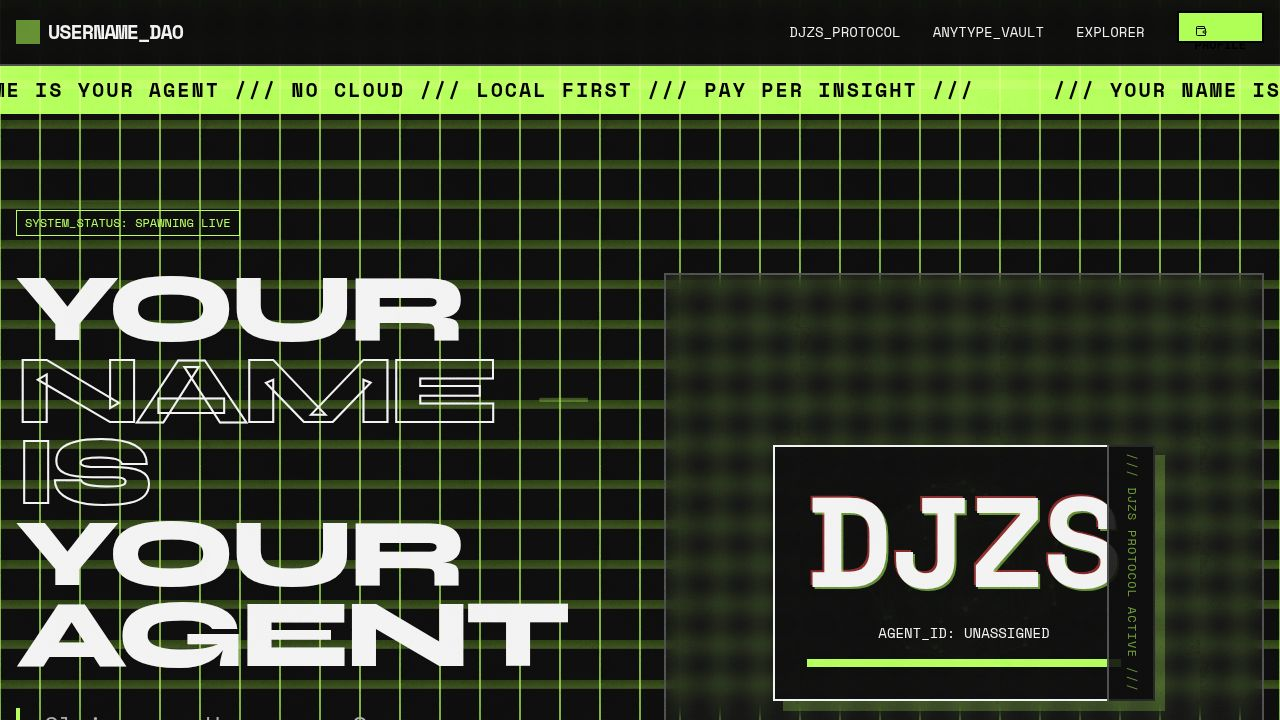
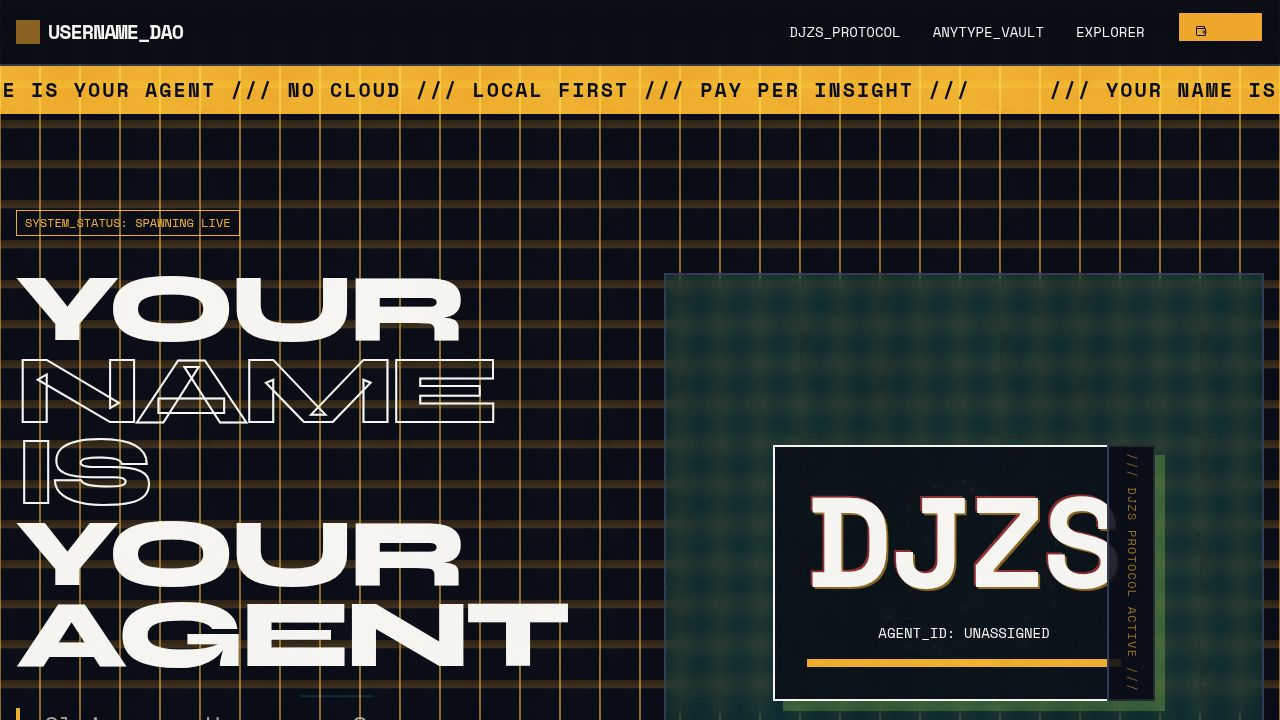
Update accent colors to a new cosmic palette
Replace all instances of the old neon green accent color with the new cosmic amber and teal palette across various components and CSS variables, and update replit.md to reflect the new color scheme.

Replit-Commit-Author: Agent
Replit-Commit-Session-Id: cc023a1b-531e-4fe4-841c-ffc53ed90461
Replit-Commit-Checkpoint-Type: full_checkpoint
Replit-Commit-Event-Id: f6748037-b390-4ebc-a0e1-237a78baecce
Replit-Commit-Screenshot-Url: https://storage.googleapis.com/screenshot-production-us-central1/ea5d0ede-c0b4-4e6e-8aab-622338eae763/cc023a1b-531e-4fe4-841c-ffc53ed90461/zV8A74f
Replit-Helium-Checkpoint-Created: true

diff --git a/client/src/index.css b/client/src/index.css
@@ -8,41 +8,41 @@
   --radius-md: 0px;
   --radius-lg: 0px;
   --radius-xl: 0px;
-  --color-background: hsl(0 0% 5%);
-  --color-foreground: hsl(0 0% 95%);
-  --color-card: hsl(0 0% 8%);
-  --color-card-foreground: hsl(0 0% 95%);
-  --color-popover: hsl(0 0% 8%);
-  --color-popover-foreground: hsl(0 0% 95%);
-  --color-primary: hsl(88 100% 67%);
-  --color-primary-foreground: hsl(0 0% 0%);
-  --color-secondary: hsl(0 0% 20%);
-  --color-secondary-foreground: hsl(0 0% 95%);
-  --color-muted: hsl(0 0% 15%);
-  --color-muted-foreground: hsl(0 0% 65%);
-  --color-accent: hsl(88 100% 67%);
-  --color-accent-foreground: hsl(0 0% 0%);
+  --color-background: hsl(225 40% 6%);
+  --color-foreground: hsl(45 20% 95%);
+  --color-card: hsl(225 35% 10%);
+  --color-card-foreground: hsl(45 20% 95%);
+  --color-popover: hsl(225 35% 10%);
+  --color-popover-foreground: hsl(45 20% 95%);
+  --color-primary: hsl(38 85% 55%);
+  --color-primary-foreground: hsl(225 40% 6%);
+  --color-secondary: hsl(173 60% 35%);
+  --color-secondary-foreground: hsl(45 20% 95%);
+  --color-muted: hsl(225 30% 15%);
+  --color-muted-foreground: hsl(45 10% 60%);
+  --color-accent: hsl(173 60% 40%);
+  --color-accent-foreground: hsl(225 40% 6%);
   --color-destructive: hsl(0 84.2% 60.2%);
   --color-destructive-foreground: hsl(0 0% 98%);
-  --color-border: hsl(0 0% 30%);
-  --color-primary-border: hsl(88 100% 67%);
-  --color-accent-border: hsl(88 100% 67%);
-  --color-card-border: hsl(0 0% 30%);
-  --color-input: hsl(0 0% 30%);
-  --color-ring: hsl(88 100% 67%);
-  --color-chart-1: hsl(88 100% 67%);
-  --color-chart-2: hsl(0 0% 100%);
-  --color-chart-3: hsl(0 0% 50%);
-  --color-chart-4: hsl(0 0% 30%);
-  --color-chart-5: hsl(0 0% 20%);
-  --color-sidebar: hsl(0 0% 8%);
-  --color-sidebar-foreground: hsl(0 0% 95%);
-  --color-sidebar-primary: hsl(88 100% 67%);
-  --color-sidebar-primary-foreground: hsl(0 0% 0%);
-  --color-sidebar-accent: hsl(0 0% 20%);
-  --color-sidebar-accent-foreground: hsl(0 0% 95%);
-  --color-sidebar-border: hsl(0 0% 30%);
-  --color-sidebar-ring: hsl(88 100% 67%);
+  --color-border: hsl(225 25% 25%);
+  --color-primary-border: hsl(38 85% 55%);
+  --color-accent-border: hsl(173 60% 40%);
+  --color-card-border: hsl(225 25% 25%);
+  --color-input: hsl(225 25% 25%);
+  --color-ring: hsl(38 85% 55%);
+  --color-chart-1: hsl(38 85% 55%);
+  --color-chart-2: hsl(173 60% 40%);
+  --color-chart-3: hsl(20 70% 50%);
+  --color-chart-4: hsl(225 30% 40%);
+  --color-chart-5: hsl(225 25% 25%);
+  --color-sidebar: hsl(225 35% 10%);
+  --color-sidebar-foreground: hsl(45 20% 95%);
+  --color-sidebar-primary: hsl(38 85% 55%);
+  --color-sidebar-primary-foreground: hsl(225 40% 6%);
+  --color-sidebar-accent: hsl(173 60% 35%);
+  --color-sidebar-accent-foreground: hsl(45 20% 95%);
+  --color-sidebar-border: hsl(225 25% 25%);
+  --color-sidebar-ring: hsl(38 85% 55%);
 
   /* Automatically computed borders: They're already hsl() wrapped. That's okay.
    * The only reason you don't want to wrap them in hsl() in theme tokens is so that
@@ -76,40 +76,40 @@
   --elevate-1: rgba(255,255,255, .05);
   --elevate-2: rgba(255,255,255, .10);
 
-  --background: 0 0% 5%;
-  --foreground: 0 0% 95%;
-  --border: 0 0% 30%;
-  --card: 0 0% 8%;
-  --card-foreground: 0 0% 95%;
-  --card-border: 0 0% 30%;
-  --sidebar: 0 0% 8%;
-  --sidebar-foreground: 0 0% 95%;
-  --sidebar-border: 0 0% 30%;
-  --sidebar-primary: 88 100% 67%;
-  --sidebar-primary-foreground: 0 0% 0%;
-  --sidebar-accent: 0 0% 20%;
-  --sidebar-accent-foreground: 0 0% 95%;
-  --sidebar-ring: 88 100% 67%;
-  --popover: 0 0% 8%;
-  --popover-foreground: 0 0% 95%;
-  --popover-border: 0 0% 30%;
-  --primary: 88 100% 67%; /* Acid Green */
-  --primary-foreground: 0 0% 0%;
-  --secondary: 0 0% 20%;
-  --secondary-foreground: 0 0% 95%;
-  --muted: 0 0% 15%;
-  --muted-foreground: 0 0% 65%;
-  --accent: 88 100% 67%;
-  --accent-foreground: 0 0% 0%;
+  --background: 225 40% 6%;
+  --foreground: 45 20% 95%;
+  --border: 225 25% 25%;
+  --card: 225 35% 10%;
+  --card-foreground: 45 20% 95%;
+  --card-border: 225 25% 25%;
+  --sidebar: 225 35% 10%;
+  --sidebar-foreground: 45 20% 95%;
+  --sidebar-border: 225 25% 25%;
+  --sidebar-primary: 38 85% 55%;
+  --sidebar-primary-foreground: 225 40% 6%;
+  --sidebar-accent: 173 60% 35%;
+  --sidebar-accent-foreground: 45 20% 95%;
+  --sidebar-ring: 38 85% 55%;
+  --popover: 225 35% 10%;
+  --popover-foreground: 45 20% 95%;
+  --popover-border: 225 25% 25%;
+  --primary: 38 85% 55%; /* Cosmic Amber/Gold */
+  --primary-foreground: 225 40% 6%;
+  --secondary: 173 60% 35%; /* Cosmic Teal */
+  --secondary-foreground: 45 20% 95%;
+  --muted: 225 30% 15%;
+  --muted-foreground: 45 10% 60%;
+  --accent: 173 60% 40%; /* Cosmic Cyan */
+  --accent-foreground: 225 40% 6%;
   --destructive: 0 62.8% 30.6%;
   --destructive-foreground: 0 0% 98%;
-  --input: 0 0% 30%;
-  --ring: 88 100% 67%;
-  --chart-1: 88 100% 67%;
-  --chart-2: 0 0% 100%;
-  --chart-3: 0 0% 50%;
-  --chart-4: 0 0% 30%;
-  --chart-5: 0 0% 20%;
+  --input: 225 25% 25%;
+  --ring: 38 85% 55%;
+  --chart-1: 38 85% 55%;
+  --chart-2: 173 60% 40%;
+  --chart-3: 20 70% 50%;
+  --chart-4: 225 30% 40%;
+  --chart-5: 225 25% 25%;
 
   --font-sans: 'Space Grotesk', 'Chakra Petch', 'Inter', sans-serif;
   --font-serif: 'Syne', serif;

diff --git a/client/src/pages/profile.tsx b/client/src/pages/profile.tsx
@@ -94,7 +94,7 @@ export default function Profile() {
   const mainNft = user.nfts?.[0];
 
   return (
-    <div className="min-h-screen bg-black text-primary font-mono selection:bg-primary selection:text-black relative overflow-hidden">
+    <div className="min-h-screen bg-background text-primary font-mono selection:bg-primary selection:text-primary-foreground relative overflow-hidden">
       {/* Ambient Background */}
       <div className="fixed inset-0 z-0 pointer-events-none">
         <CyberGrid />
@@ -102,7 +102,7 @@ export default function Profile() {
       </div>
 
       {/* Navigation Bar (Simplified) */}
-      <nav className="fixed top-0 left-0 right-0 z-50 border-b-2 border-primary bg-black/90 backdrop-blur-md h-16 flex items-center justify-between px-6">
+      <nav className="fixed top-0 left-0 right-0 z-50 border-b-2 border-primary bg-background/90 backdrop-blur-md h-16 flex items-center justify-between px-6">
         <Link href="/">
           <div className="flex items-center gap-2 cursor-pointer group">
             <div className="w-8 h-8 bg-primary text-black flex items-center justify-center font-bold text-xl group-hover:rotate-180 transition-transform duration-500">
@@ -116,7 +116,7 @@ export default function Profile() {
 
         <div className="flex items-center gap-4">
            <div className="hidden md:flex items-center gap-6 text-[10px] uppercase tracking-widest text-primary/70">
-              <span className="flex items-center gap-1"><div className="w-2 h-2 bg-green-500 rounded-full animate-pulse"/> {mainNft?.chain || "BASE MAINNET"}</span>
+              <span className="flex items-center gap-1"><div className="w-2 h-2 bg-accent rounded-full animate-pulse"/> {mainNft?.chain || "BASE MAINNET"}</span>
               <span className="flex items-center gap-1"><ShieldCheck className="w-3 h-3"/> CONNECTED</span>
            </div>
            <BrutalButton className="h-8 text-xs px-4">
@@ -163,7 +163,7 @@ export default function Profile() {
                     </div>
                     
                     {/* Scanline Effect */}
-                    <div className="absolute inset-0 bg-[linear-gradient(transparent_50%,rgba(178,255,89,0.05)_50%)] bg-[length:100%_4px] pointer-events-none z-30" />
+                    <div className="absolute inset-0 bg-[linear-gradient(transparent_50%,rgba(232,168,56,0.05)_50%)] bg-[length:100%_4px] pointer-events-none z-30" />
                 </ThreeDCard>
 
                 <div className="flex gap-2">
@@ -249,9 +249,9 @@ export default function Profile() {
                             ACTIVITY_LOG
                         </span>
                         <div className="flex gap-1">
-                            <div className="w-2 h-2 rounded-full bg-red-500/50"/>
-                            <div className="w-2 h-2 rounded-full bg-yellow-500/50"/>
-                            <div className="w-2 h-2 rounded-full bg-green-500/50"/>
+                            <div className="w-2 h-2 rounded-full bg-destructive/50"/>
+                            <div className="w-2 h-2 rounded-full bg-primary/50"/>
+                            <div className="w-2 h-2 rounded-full bg-accent/50"/>
                         </div>
                     </div>
                     

diff --git a/client/src/components/mobile-menu.tsx b/client/src/components/mobile-menu.tsx
@@ -24,7 +24,7 @@ export const MobileMenu = () => {
     <div className="md:hidden">
       <BrutalButton 
         onClick={toggleMenu} 
-        className="h-10 w-10 p-0 flex items-center justify-center border-2 border-primary bg-black text-primary shadow-[4px_4px_0px_rgba(178,255,89,0.5)] relative z-[60]"
+        className="h-10 w-10 p-0 flex items-center justify-center border-2 border-primary bg-background text-primary shadow-[4px_4px_0px_rgba(232,168,56,0.5)] relative z-[60]"
         data-testid="button-mobile-menu"
       >
         {isOpen ? <X className="w-6 h-6" /> : <Menu className="w-6 h-6" />}
@@ -37,10 +37,10 @@ export const MobileMenu = () => {
             animate={{ opacity: 1, x: 0 }}
             exit={{ opacity: 0, x: "100%" }}
             transition={{ type: "spring", damping: 20, stiffness: 100 }}
-            className="fixed inset-0 z-[55] bg-black backdrop-blur-xl flex flex-col p-6 pt-24 space-y-8 border-l-2 border-primary"
+            className="fixed inset-0 z-[55] bg-background backdrop-blur-xl flex flex-col p-6 pt-24 space-y-8 border-l-2 border-primary"
           >
-            {/* Background Grid Effect */}
-            <div className="absolute inset-0 z-[-1] bg-[linear-gradient(rgba(178,255,89,0.05)_1px,transparent_1px),linear-gradient(90deg,rgba(178,255,89,0.05)_1px,transparent_1px)] bg-[size:40px_40px]" />
+            {/* Background Grid Effect - Cosmic Amber */}
+            <div className="absolute inset-0 z-[-1] bg-[linear-gradient(rgba(232,168,56,0.05)_1px,transparent_1px),linear-gradient(90deg,rgba(232,168,56,0.05)_1px,transparent_1px)] bg-[size:40px_40px]" />
 
             <div className="space-y-2">
                 <div className="text-xs font-mono text-primary/50 uppercase tracking-widest mb-4 border-b border-primary/30 pb-2">/// NAVIGATION</div>
@@ -114,7 +114,7 @@ export const MobileMenu = () => {
                     <div className="flex justify-between text-[10px] font-mono">
                         <span className="text-primary/50">NETWORK</span>
                         <div className="flex items-center gap-1 text-primary">
-                            <div className="w-2 h-2 bg-green-500 rounded-full animate-pulse"/>
+                            <div className="w-2 h-2 bg-accent rounded-full animate-pulse"/>
                             BASE MAINNET
                         </div>
                     </div>

diff --git a/client/src/components/djzs-agent-console.tsx b/client/src/components/djzs-agent-console.tsx
@@ -215,7 +215,7 @@ export const DjzsAgentConsole = () => {
   };
 
   return (
-    <BrutalCard className="w-full max-w-6xl mx-auto bg-black/90 backdrop-blur-xl p-0 overflow-hidden border-2 border-primary shadow-[0px_0px_40px_rgba(178,255,89,0.2)]">
+    <BrutalCard className="w-full max-w-6xl mx-auto bg-background/90 backdrop-blur-xl p-0 overflow-hidden border-2 border-primary shadow-[0px_0px_40px_rgba(232,168,56,0.2)]">
       {/* Terminal Header */}
       <div className="bg-primary/10 text-primary p-2 border-b-2 border-primary flex justify-between items-center relative overflow-hidden">
         {/* Header Glitch Scanline */}
@@ -325,7 +325,7 @@ export const DjzsAgentConsole = () => {
             {/* Status Bar */}
             <div className="border-b border-primary/30 p-2 flex justify-between text-[10px] font-mono text-primary/50 uppercase tracking-wider bg-black/80 backdrop-blur-sm z-10">
                 <div className="flex gap-4">
-                    <span>STATUS: {loading ? <span className="text-primary animate-pulse">PROCESSING...</span> : <span className="text-green-500">IDLE</span>}</span>
+                    <span>STATUS: {loading ? <span className="text-primary animate-pulse">PROCESSING...</span> : <span className="text-accent">IDLE</span>}</span>
                     <span>MEM: 128MB</span>
                 </div>
                 <div className="flex gap-2">
@@ -351,7 +351,7 @@ export const DjzsAgentConsole = () => {
 
                 {/* Live Logs Overlay */}
                 {loading && (
-                    <div className="absolute bottom-4 left-4 right-4 p-4 bg-black/90 border border-primary/30 text-[10px] font-mono text-primary shadow-[0_0_20px_rgba(178,255,89,0.1)]">
+                    <div className="absolute bottom-4 left-4 right-4 p-4 bg-background/90 border border-primary/30 text-[10px] font-mono text-primary shadow-[0_0_20px_rgba(232,168,56,0.1)]">
                         <div className="flex flex-col-reverse gap-1 h-32 overflow-hidden">
                             {logs.map((log, i) => (
                                 <div key={i} className="animate-in fade-in slide-in-from-left-4 duration-100 flex gap-2">

diff --git a/client/src/pages/home.tsx b/client/src/pages/home.tsx
@@ -145,10 +145,10 @@ export default function Home() {
                     /// DJZS PROTOCOL ACTIVE ///
                   </div>
                </div>
-               <div className="relative z-10 text-center space-y-4 p-8 bg-background/90 backdrop-blur-sm border-2 border-foreground transition-transform shadow-[10px_10px_0px_rgba(178,255,89,0.2)]">
+               <div className="relative z-10 text-center space-y-4 p-8 bg-background/90 backdrop-blur-sm border-2 border-foreground transition-transform shadow-[10px_10px_0px_rgba(232,168,56,0.2)]">
                  <GlitchText text="DJZS" className="text-7xl md:text-9xl block" />
                  <div className="font-mono text-sm">AGENT_ID: {activeAgent ? `@${activeAgent.toUpperCase()}` : "UNASSIGNED"}</div>
-                 <div className={`w-full h-2 mt-4 loading-bar ${activeAgent ? "bg-green-500 shadow-[0_0_10px_rgba(34,197,94,0.8)]" : "bg-primary"}`} />
+                 <div className={`w-full h-2 mt-4 loading-bar ${activeAgent ? "bg-accent shadow-[0_0_10px_rgba(20,184,166,0.8)]" : "bg-primary"}`} />
                </div>
             </ThreeDCard>
           </div>

diff --git a/client/src/components/cyber-grid.tsx b/client/src/components/cyber-grid.tsx
@@ -25,9 +25,9 @@ export const CyberGrid = () => {
       ctx.fillStyle = 'rgba(0, 0, 0, 0.1)'; // Fade out
       ctx.fillRect(0, 0, width, height);
       
-      ctx.strokeStyle = '#b2ff59'; // Neon Green
+      ctx.strokeStyle = '#E8A838'; // Cosmic Amber/Gold
       ctx.lineWidth = 1;
-      ctx.globalAlpha = 0.15;
+      ctx.globalAlpha = 0.12;
 
       // Vertical lines
       for (let x = 0; x <= width; x += gridSize) {
@@ -47,15 +47,15 @@ export const CyberGrid = () => {
 
       offset = (offset + speed) % gridSize;
 
-      // Random glitch artifacts
+      // Random glitch artifacts - cosmic teal and amber
       if (Math.random() > 0.95) {
         const rx = Math.random() * width;
         const ry = Math.random() * height;
         const rw = Math.random() * 100;
         const rh = Math.random() * 5;
         
-        ctx.fillStyle = '#b2ff59';
-        ctx.globalAlpha = 0.3;
+        ctx.fillStyle = Math.random() > 0.5 ? '#E8A838' : '#14B8A6';
+        ctx.globalAlpha = 0.25;
         ctx.fillRect(rx, ry, rw, rh);
       }
 

diff --git a/client/src/pages/explorer.tsx b/client/src/pages/explorer.tsx
@@ -199,7 +199,7 @@ export default function Explorer() {
                       <h3 className="text-lg font-black uppercase">{agent.username}</h3>
                       <div className="inline-block bg-primary text-black px-2 py-1 text-[10px] font-bold mt-2">{agent.tag}</div>
                     </div>
-                    <div className={`w-3 h-3 rounded-full ${agent.status === "ACTIVE" ? "bg-green-500 animate-pulse" : "bg-gray-500"}`} />
+                    <div className={`w-3 h-3 rounded-full ${agent.status === "ACTIVE" ? "bg-accent animate-pulse" : "bg-gray-500"}`} />
                   </div>
                   <div className="grid grid-cols-2 gap-3 py-4 border-y border-border text-xs font-mono">
                     <div><div className="text-primary/60">LEVEL</div><div className="text-lg font-bold text-primary">{agent.level}</div></div>

diff --git a/client/src/components/wireframe-core.tsx b/client/src/components/wireframe-core.tsx
@@ -65,8 +65,8 @@ export const WireframeCore = ({ className }: { className?: string }) => {
       const cx = width / 2;
       const cy = height / 2;
 
-      ctx.strokeStyle = '#b2ff59';
-      ctx.fillStyle = '#b2ff59';
+      ctx.strokeStyle = '#E8A838'; // Cosmic Amber/Gold
+      ctx.fillStyle = '#E8A838';
       
       // Update angles
       angleX += 0.005;

diff --git a/client/src/components/matrix-rain.tsx b/client/src/components/matrix-rain.tsx
@@ -28,7 +28,7 @@ export const MatrixRain = () => {
       ctx.fillStyle = 'rgba(0, 0, 0, 0.05)';
       ctx.fillRect(0, 0, width, height);
 
-      ctx.fillStyle = '#b2ff59'; // Neon Green
+      ctx.fillStyle = '#E8A838'; // Cosmic Amber/Gold
       ctx.font = '10px monospace';
 
       for (let i = 0; i < drops.length; i++) {

diff --git a/client/src/lib/web3bio-service.ts b/client/src/lib/web3bio-service.ts
@@ -198,5 +198,5 @@ export function getPlatformColor(platform: string): string {
     solana: "#9945FF",
     unstoppabledomains: "#0D67FE",
   };
-  return colors[platform] || "#b2ff59";
+  return colors[platform] || "#E8A838";
 }

diff --git a/replit.md b/replit.md
@@ -3,7 +3,7 @@
 ## Project Overview
 Brutalist landing page and dApp for Username DAO × DJZS Protocol - a decentralized crypto infrastructure where users mint a Username NFT to spawn personal AI agents. The system uses local-first architecture with Anytype Vault for private data storage, Irys Network for permanent archiving, Vana DataDAO for collective intelligence, and micropayment-based AI queries via x402 protocol.
 
-**Design System**: Digital brutalism with neon green (#b2ff59) accent color, Space Grotesk/Chakra Petch/Space Mono typography, and raw "Bushwick agency-level" aesthetic.
+**Design System**: Digital brutalism with cosmic color palette - amber/gold primary (#E8A838), teal/cyan accent (#14B8A6), deep space dark backgrounds (HSL 225 40% 6%), Space Grotesk/Chakra Petch/Space Mono typography, and raw "Bushwick agency-level" aesthetic.
 
 **Stack**: React + Vite + Express + PostgreSQL (Drizzle ORM) + Tailwind CSS + TypeScript
 
@@ -147,10 +147,11 @@ Application is production-ready with:
 ## Design Specifications
 
 ### Color Palette
-- **Primary**: #b2ff59 (Neon Green - Brutalist accent)
-- **Background**: #000000 (Pure Black)
-- **Text**: #ffffff (White) with primary accents
-- **Secondary**: Primary with opacity variations
+- **Primary**: #E8A838 (Cosmic Amber/Gold - warm accent)
+- **Secondary/Accent**: #14B8A6 (Cosmic Teal/Cyan - cool accent)
+- **Background**: HSL(225 40% 6%) (Deep Space Dark Blue-Black)
+- **Foreground**: HSL(45 20% 95%) (Warm Light)
+- **Card/Muted**: Deep space blues with subtle warmth
 
 ### Typography
 - **Display/Headings**: Space Grotesk, Space Mono
